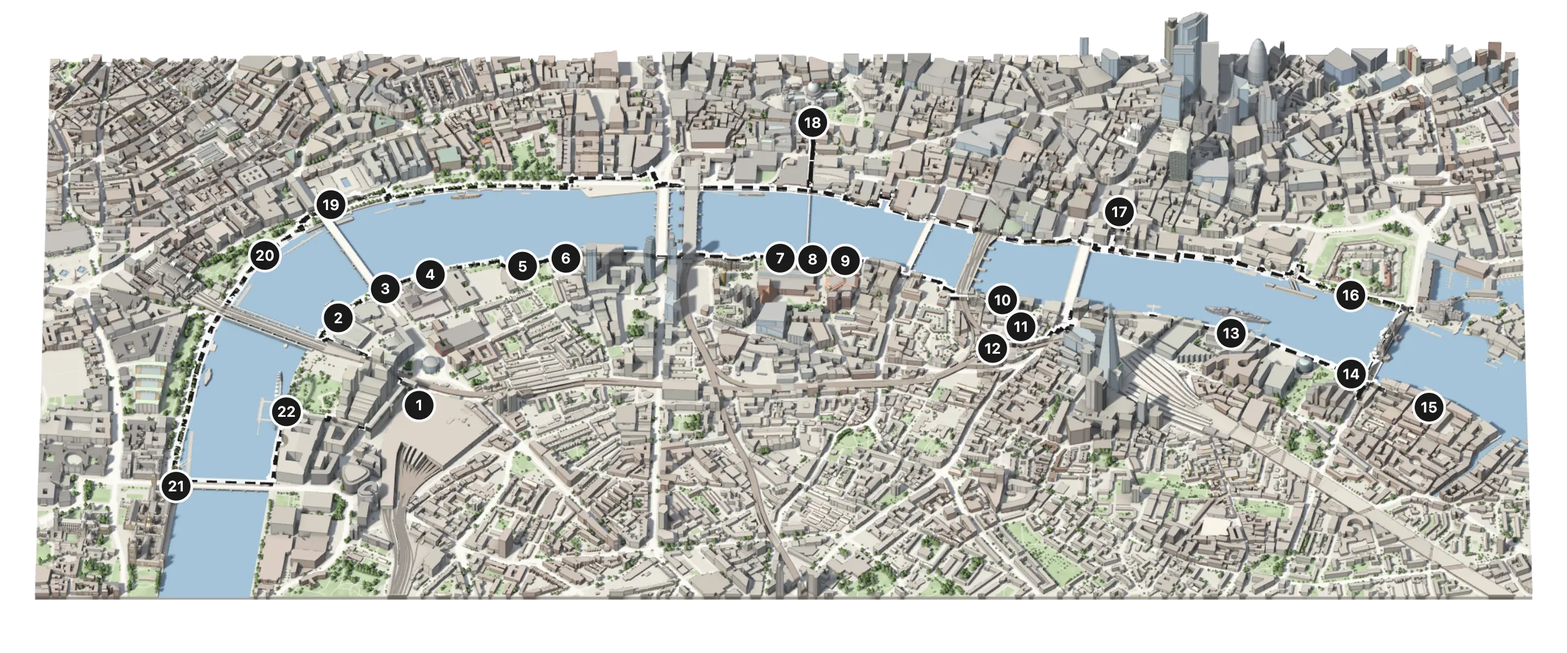
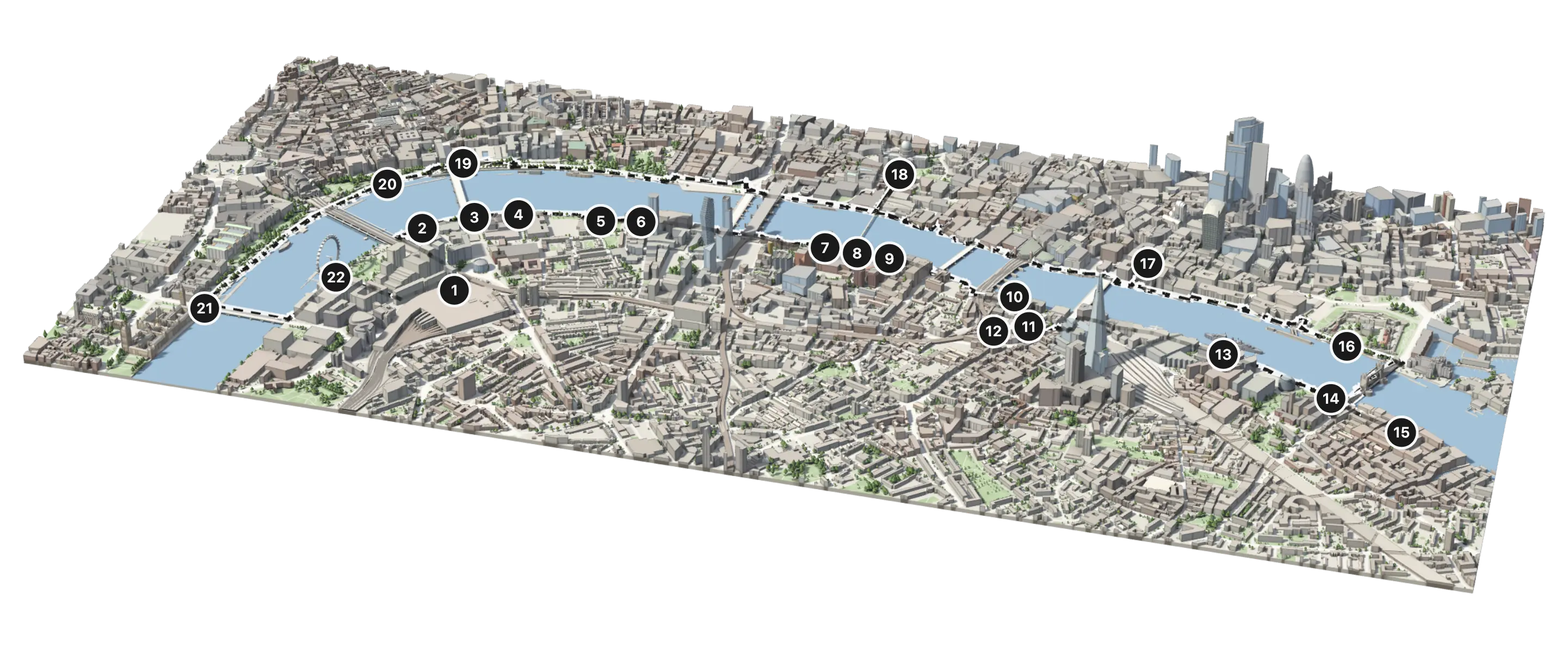
South Bank walk: night by the reader's clock, a day and night button, and a tilted picture for the article
- The page is night from seven in the evening to six in the morning by
  the reader's own clock, settled in the head before it paints and asked
  again every minute. A system or a saved theme that asks for dark is
  never shown a bright page at noon. Without JavaScript the page follows
  the system alone, as before.
- A button in the toolbar, and the N key, turn day to night and back for
  the rest of the visit. Neither stops a flight.
- The article's picture is the board seen from an angle and tipped over,
  so the buildings stand up. Its alt text no longer says north is at the
  top.

Two tests hold the clock at ten at night and at noon.

diff --git a/misc/london-southbank/index.html b/misc/london-southbank/index.html
@@ -7,7 +7,16 @@
 <title>A Stroll Along the South Bank | Brajeshwar</title>
 <meta name="description" content="A model of the South Bank in London to turn, move, and fly through: the walk from Waterloo Station to Shad Thames, across Tower Bridge, and back along the north bank.">
 <link rel="canonical" href="https://brajeshwar.com/misc/london-southbank/">
-<script>(function(){var d=document.documentElement;d.classList.add('js');try{var t=localStorage.getItem('theme');if(t==='light'||t==='dark'){d.dataset.theme=t;document.querySelector('meta[name=color-scheme]').content=t;}}catch(e){}})();</script>
+<script>
+// Day or night, settled before the page paints; walk.js asks again as the
+// hours pass. It is night if the reader has said so with the button, for
+// this visit; else if they have a standing wish for dark, their system's or
+// this site's; else by their own clock, from seven in the evening to six in
+// the morning.
+var light={chosen:null,night:function(){var wish;try{wish=localStorage.getItem('theme')}catch(e){}if(light.chosen)return light.chosen==='night';if(wish==='dark'||wish!=='light'&&matchMedia('(prefers-color-scheme: dark)').matches)return true;var hour=new Date().getHours();return hour>=19||hour<6}};
+try{light.chosen=sessionStorage.getItem('walk-light')}catch(e){}
+(function(){var d=document.documentElement,theme=light.night()?'dark':'light';d.classList.add('js');d.dataset.theme=theme;document.querySelector('meta[name=color-scheme]').content=theme})();
+</script>
 <style>
 /* A one-off, on its own (see _docs/misc.md). Everything this page needs is in
    this folder: nothing here loads the site's stylesheet or scripts, and
@@ -70,10 +79,12 @@ button:focus-visible { outline: 2px solid var(--ink); outline-offset: 2px; }
    sit on a button. */
 .tools { position: absolute; top: .75rem; right: .75rem; z-index: 2; display: grid; gap: .35rem; }
 .tools button { position: relative; display: grid; place-items: center; width: 2.25rem; height: 2.25rem; padding: 0; backdrop-filter: blur(6px); }
-/* The walk's own three buttons stand a little apart from the view's four. */
+/* The walk's own three buttons stand a little apart from the view's five. */
 .tools .tools__walk { margin-top: .4rem; }
 .tools [aria-pressed="true"] { background: var(--ink); color: var(--paper); border-color: var(--ink); }
 .tools [aria-pressed="false"] .pause, .tools [aria-pressed="true"] .play { display: none; }
+/* By day the button offers the night, and by night the day. */
+.tools [aria-pressed="false"] .sun, .tools [aria-pressed="true"] .moon { display: none; }
 
 /* Every button says what it is, beside it, on hover or on focus, with its
    key if it has one. The words are the button's own aria-label, so what is
@@ -151,6 +162,7 @@ button:focus-visible { outline: 2px solid var(--ink); outline-offset: 2px; }
           <button type="button" data-whole aria-label="Reset the view" data-key="0"><svg viewBox="0 0 16 16" aria-hidden="true"><path d="M2.4 7.8L8 2.8l5.6 5M4 6.6V13.2h8V6.6M6.7 13.2V9.6h2.6v3.6"/></svg></button>
           <button type="button" data-closer aria-label="Zoom in" data-key="+"><svg viewBox="0 0 16 16" aria-hidden="true"><path d="M8 3v10M3 8h10"/></svg></button>
           <button type="button" data-further aria-label="Zoom out" data-key="-"><svg viewBox="0 0 16 16" aria-hidden="true"><path d="M3 8h10"/></svg></button>
+          <button type="button" data-light aria-pressed="false" aria-label="Show by night" data-key="N"><svg class="moon" viewBox="0 0 16 16" aria-hidden="true"><path d="M13.2 9.5A5.6 5.6 0 1 1 6.5 2.8a4.5 4.5 0 0 0 6.7 6.7z"/></svg><svg class="sun" viewBox="0 0 16 16" aria-hidden="true"><circle cx="8" cy="8" r="2.7"/><path d="M8 1.5v1.7M8 12.8v1.7M1.5 8h1.7M12.8 8h1.7M3.4 3.4l1.2 1.2M11.4 11.4l1.2 1.2M3.4 12.6l1.2-1.2M11.4 4.6l1.2-1.2"/></svg></button>
           <button type="button" class="tools__walk" data-step="-1" aria-label="Previous stop" data-key="&larr;"><svg viewBox="0 0 16 16" aria-hidden="true"><path d="M4 3.5v9M12 3.8L6.6 8l5.4 4.2z"/></svg></button>
           <button type="button" data-play aria-pressed="false" aria-label="Fly the walk"><svg class="play" viewBox="0 0 16 16" aria-hidden="true"><path d="M5 3.2L12.6 8 5 12.8z"/></svg><svg class="pause" viewBox="0 0 16 16" aria-hidden="true"><path d="M5.5 3.5v9M10.5 3.5v9"/></svg></button>
           <button type="button" data-step="1" aria-label="Next stop" data-key="&rarr;"><svg viewBox="0 0 16 16" aria-hidden="true"><path d="M12 3.5v9M4 3.8L9.4 8 4 12.2z"/></svg></button>

diff --git a/misc/london-southbank/walk.js b/misc/london-southbank/walk.js
@@ -236,6 +236,44 @@ function readLook() {
   };
 }
 
+// ---- day and night -----------------------------------------------------
+//
+// Whether it is night is the page's to say, in the script in its head: the
+// reader's choice for this visit, else a standing wish for dark, else their
+// clock. Here that answer is put everywhere it shows: the page's colors,
+// the picture that stands in for the model, the button, the model's light.
+
+function relight() {
+  const night = window.light.night();
+  const theme = night ? 'dark' : 'light';
+  root.dataset.theme = theme;
+  document.querySelector('meta[name=color-scheme]').content = theme;
+  stage.querySelector('picture source').media = night ? 'all' : 'not all';
+  const button = stage.querySelector('[data-light]');
+  button.setAttribute('aria-pressed', String(night));
+  button.setAttribute('aria-label', night ? 'Show by day' : 'Show by night');
+  if (!view) return;
+  readLook();
+  redraw();
+}
+
+// The button turns day to night and back, for the rest of this visit.
+function turnLight() {
+  window.light.chosen = window.light.night() ? 'day' : 'night';
+  try {
+    sessionStorage.setItem('walk-light', window.light.chosen);
+  } catch (e) {
+    /* no storage: the choice lasts until the page is left */
+  }
+  relight();
+}
+
+relight();
+// Evening comes on with the page open, and morning too.
+setInterval(function () {
+  if (window.light.night() !== (root.dataset.theme === 'dark')) relight();
+}, 60000);
+
 // ---- views -------------------------------------------------------------
 
 // The whole board, turned to suit the shape of the screen: north at the top
@@ -891,6 +929,7 @@ document.addEventListener('click', function (e) {
   const button = e.target.closest('button');
   if (button && stage.contains(button)) {
     if ('play' in button.dataset) return play(!playing);
+    if ('light' in button.dataset) return turnLight();
     takeOver();
     if (button.dataset.step) return step(Number(button.dataset.step));
     if ('north' in button.dataset) return nudge({ heading: 0 });
@@ -915,12 +954,14 @@ const KEYS = {
   '=': closer,
   '-': further,
   0: () => fly(overview(), 1400),
+  n: turnLight,
 };
 
 document.addEventListener('keydown', function (e) {
   if (!view || e.metaKey || e.ctrlKey || e.altKey || !KEYS[e.key]) return;
   e.preventDefault();
-  takeOver();
+  // Night can fall in mid-flight. Any other key takes the camera over.
+  if (e.key !== 'n') takeOver();
   KEYS[e.key]();
 });
 
@@ -956,19 +997,10 @@ function start(city) {
     measure();
     redraw();
   }).observe(canvas);
-  // The page's Light or Dark can change under us: the system's, or the
+  // The standing wish for dark can change under us: the system's, or the
   // site's own toggle in another tab.
   window.matchMedia('(prefers-color-scheme: dark)').addEventListener('change', relight);
-  window.addEventListener('storage', function () {
-    try {
-      const saved = localStorage.getItem('theme');
-      if (saved === 'light' || saved === 'dark') root.dataset.theme = saved;
-      else delete root.dataset.theme;
-    } catch (e) {
-      /* no storage, no saved theme */
-    }
-    relight();
-  });
+  window.addEventListener('storage', relight);
   canvas.addEventListener('webglcontextlost', function (e) {
     e.preventDefault();
   });
@@ -976,11 +1008,6 @@ function start(city) {
     draw.setup();
     redraw();
   });
-}
-
-function relight() {
-  readLook();
-  redraw();
 }
 
 fetch(new URL('city.json', import.meta.url))

diff --git a/_docs/misc.md b/_docs/misc.md
@@ -45,9 +45,10 @@ past each stop as its name comes up; Pause leaves the camera where it has got
 to.
 
 **Every control is in one toolbar, top right, inside the model:** compass,
-home, zoom in, zoom out, then previous stop, fly the walk, and next stop. The
-last three were words on a row under the model until 2026-11-15, where a short
-window pushed them out of sight. They are pictures now, and every button names
+home, zoom in, zoom out, day or night, then previous stop, fly the walk, and
+next stop. The last three were words on a row under the model until
+2026-11-15, where a short window pushed them out of sight. They are pictures
+now, and every button names
 itself in a tooltip on hover or focus, with its key if it has one. The tooltip
 is the button's own `aria-label`, drawn by CSS, so what is shown and what a
 screen reader says are one string.
@@ -118,6 +119,26 @@ with it in the same way.
 **Without JavaScript, or without WebGL2,** the page is the picture, the pins on
 it (placed in percent, in the HTML), and the list they link to. The script adds
 `is-live` to `.stage` once the model has drawn, or `is-still` if it cannot.
+
+**The page is night by the reader's own clock** (2026-11-15: *"why not detect
+from the user's time and set it automatically. Of course, add a day/night
+toggle amongst the buttons"*). Night is the whole page gone dark, and the
+model with it: lit windows, lamps on the river. The rule is one function,
+`light.night()`, in the script in the page's head, so it is settled before
+the page paints. In order:
+
+1. what the reader chose with the button, which holds for the visit
+   (`sessionStorage`, `walk-light`) and is forgotten when the tab closes;
+2. a standing wish for dark: the system's, or the site's own saved theme.
+   Someone who asks for dark is never shown a bright page at noon;
+3. the clock: night from seven in the evening to six in the morning, by the
+   reader's own time, wherever they are.
+
+`walk.js` asks again every minute, so evening comes on with the page open.
+The button's key is N, and neither it nor the key stops a flight. [WARNING]
+The hours are fixed. It is not sunset: nothing here knows where the reader
+is, and asking would be a permission prompt for a decoration. Without
+JavaScript the page follows the system alone, as it always did.
 
 **The model is in color; the page round it is not** (2026-11-15: first *"the
 next step of the Tinted Palette"*, then *"build the next better colored
@@ -337,20 +358,25 @@ Which way the camera faces at each stop is the `FACING` table in `walk.js`.
 **The pictures** are the model's own overview, 1600 by 800, with the controls
 and caption hidden, once in each color scheme. The `--x` and `--y` on each pin
 in the HTML are where the script had put that pin in the same view. Remake
-both whenever the look or the stops change.
+both whenever the look or the stops change. [WARNING] Make them with the
+browser's clock held at noon, and the dark one by asking for a dark system.
+Made in the evening with the clock left alone, both come out night.
 
 **The article's picture**, `static/2026/london-southbank-walk.webp`, is the
-whole board with north straight up, so it lies level across the page, with the
-pins left in and no background at all, so it sits on the article in Light and
-in Dark. It is 2880 by 1200 and goes in a `<figure class="gallery">`, which
-carries it past the article to the width of the window, up to 1600 pixels
-(2026-11-15: *"north up, so it is horizontal and not slanted. And make the
-image large to extend beyond the article"*). Three things were done for that
-one render and are not in the page: WebGL was asked for a see-through canvas
-and cleared to nothing; the lens was lengthened from 7 degrees to 1.6, so the
-board's sides do not lean in; and the view was zoomed until the board filled
-95% of a 1200 by 500 frame. The page's own opening view is still turned
-fourteen degrees. Remake the picture with the other two.
+whole board seen from an angle and tipped well over, so the buildings stand
+up: turned 16 degrees, looking down at 31, through an 11 degree lens
+(2026-11-15: *"can we have a tilted image with the 3D view more visible from
+an angle"*). It replaced a north-up one he had asked for earlier the same
+day, which lay flat. The pins are left in and there is no background at all,
+so it sits on the article in Light and in Dark. It is 2880 by 1200 and goes
+in a `<figure class="gallery">`, which carries it past the article to the
+width of the window, up to 1600 pixels. Two things were done for that one
+render and are not in the page: WebGL was asked for a see-through canvas and
+cleared to nothing; and the camera was moved until the board's corners and
+its tallest tower filled 97% of a 1200 by 500 frame. [WARNING] The lens stays
+under 12 degrees. Past that the model fades into the paper's color with
+distance, which on no background is a pale smear. Remake the picture with
+the other two.
 
 ### Where realism can go from here, without Google
 

diff --git a/_posts/2026/2026-11-26-london-stroll-along-southbank.md b/_posts/2026/2026-11-26-london-stroll-along-southbank.md
@@ -4,7 +4,7 @@ Every time I am in London, I walk the South Bank. It started unknowingly and mis
 
 I start at Waterloo Station, find the river, and keep it on my left all the way to Tower Bridge. That is the whole plan. No tickets to book, nothing to queue for, unless I want to. It is a few kilometers of London at walking pace.
 
-<figure class="gallery"><a href="/misc/london-southbank/"><img src="/static/2026/london-southbank-walk.webp" width="2880" height="1200" alt="A model of central London along the Thames, north at the top, with the walk marked on it: along the South Bank from Waterloo Station to Shad Thames, across Tower Bridge, and back along the north bank, with twenty-two numbered stops"></a></figure>
+<figure class="gallery"><a href="/misc/london-southbank/"><img src="/static/2026/london-southbank-walk.webp" width="2880" height="1200" alt="A model of central London along the Thames, seen at an angle from above the south, with the walk marked on it: along the South Bank from Waterloo Station to Shad Thames, across Tower Bridge, and back along the north bank, with twenty-two numbered stops"></a></figure>
 
 The picture is a model. [Open it](/misc/london-southbank/) to turn it, tip it, and fly the walk from stop to stop, with the landmarks named as you pass.
 

diff --git a/_docs/memory.md b/_docs/memory.md
@@ -63,7 +63,9 @@ for **Option 2, light and surface**, which is done too: warm sun and cool shade,
 shade in corners from a sky map made at load, six kinds of window, glass and water that mirror,
 parapets, and plant on the roofs. No data changed for it. The look before each step is kept:
 `v0.3.0-colored` and `v0.4.0-measured`, each with its own copy of the data.
-[WARNING] He has not seen Option 2 yet. It was judged in screenshots, in Chrome, on his Mac.
+He saw Option 2 and said *"This is good."* With it went two more of his: the page is night by the
+reader's own clock, seven in the evening to six in the morning, with a day and night button in
+the toolbar; and the article's picture is the board tilted, seen from an angle.
 [WARNING] The script that made `city.json` is not in the repo, by the misc rule. `misc.md` says
 how the data was made; a new route means making it again.
 The article shows the model too: `static/2026/london-southbank-walk.webp`, north up, on no

diff --git a/_docs/testing.md b/_docs/testing.md
@@ -60,7 +60,9 @@ to match the old favicon filter, so it had been hiding a broken image on `/about
 - **`/misc/london-southbank/`**: the page settles as the model or as the picture, with no
   errors either way. CI's Chrome may have no WebGL2, so the test accepts both and then takes
   WebGL away on purpose: the picture loads, every pin shows and leads to its stop, and no
-  button is left on show. The same holds with JavaScript off.
+  button is left on show. The same holds with JavaScript off. With the browser's clock set, the
+  page is night at ten in the evening and day at noon, and the button turns it over for the
+  visit.
 
 The JS-off theme test found a real bug the day it was written: with scripting off, `<html>`
 never gets `data-theme="auto"`, so a dark-OS reader got the light page. `themes.scss` now
